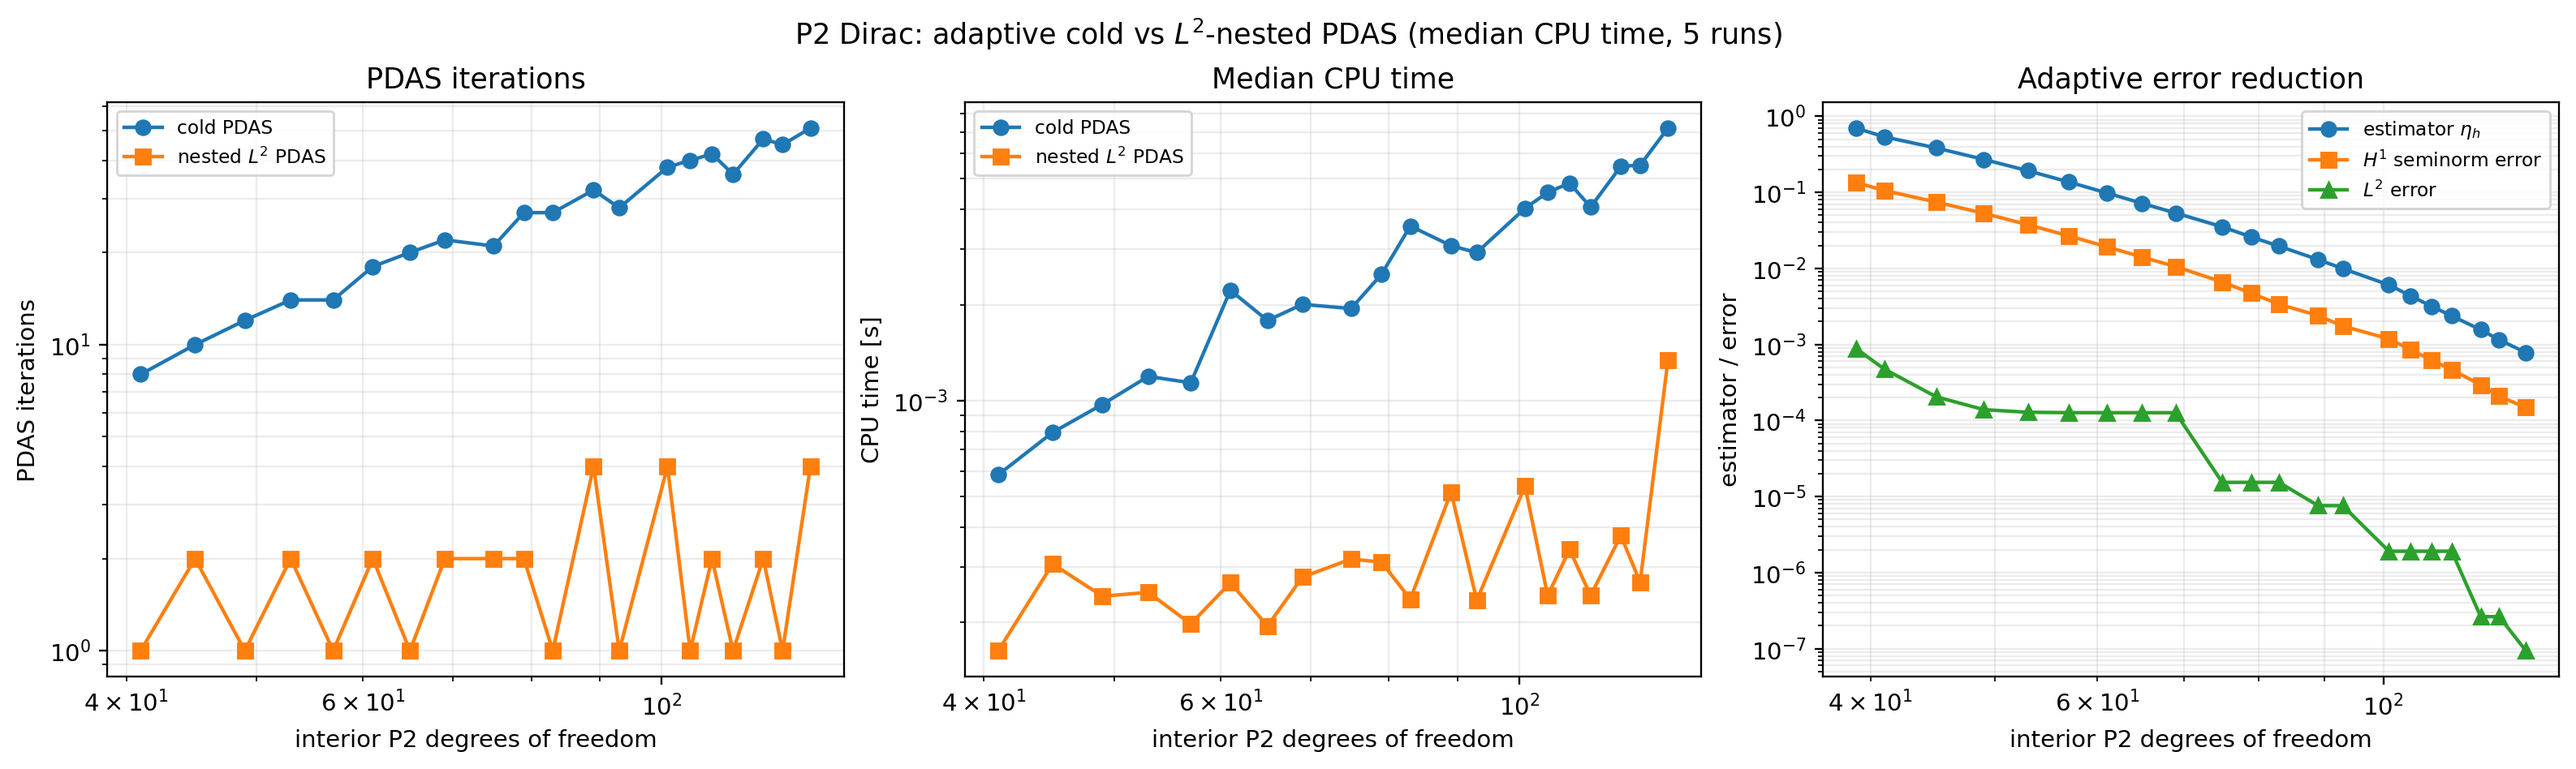
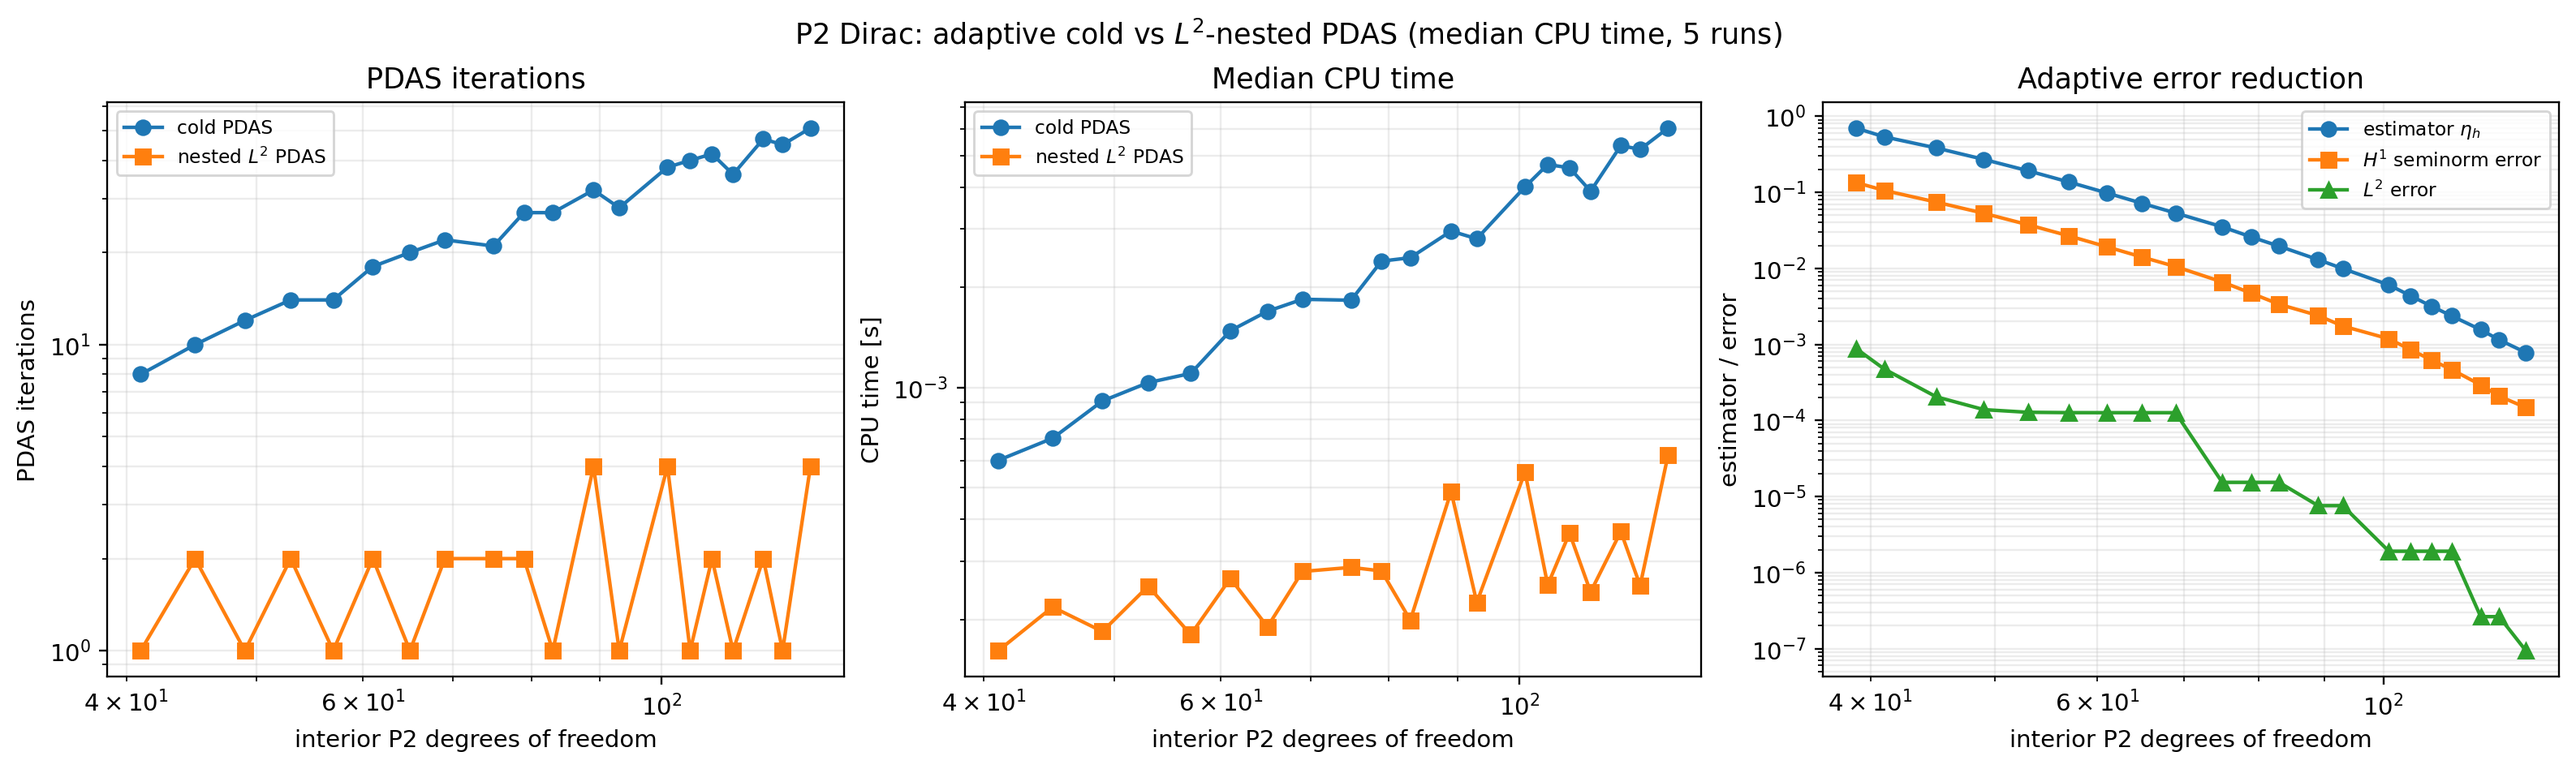
Consolidate adaptive P1 P2 nested PDAS benchmarks with validated timing

diff --git a/experiments/plot_dirac_nested_pdas_summary.py b/experiments/plot_dirac_nested_pdas_summary.py
@@ -1,0 +1,337 @@
+
+"""Six-panel, CSV-based P1/P2 adaptive Dirac PDAS comparison.
+
+Recreates plots from the saved per-mesh benchmark medians; no FEM solves.
+
+Each CPU point is the median of REPEATS independent timing repetitions
+on that mesh. Verify REPEATS against the benchmark invocation/source;
+the summary CSV contains medians, not the five raw samples.
+
+Run from repository root:
+    python -m experiments.plot_dirac_nested_pdas_summary
+"""
+
+import csv
+from pathlib import Path
+
+import matplotlib.pyplot as plt
+import numpy as np
+
+ROOT = Path(__file__).resolve().parents[1]
+RESULTS = ROOT / "results"
+FIGURES = ROOT / "figures"
+INPUTS = {
+    1: RESULTS / "p1_monster_dirac.csv",
+    2: RESULTS / "p2_monster_dirac.csv",
+}
+REPEATS = 5  # Benchmark setting, NOT inferred from aggregated CSV.
+MAX_SOLUTION_DIFFERENCE = 1e-8
+
+
+def load_history(path):
+    if not path.is_file():
+        raise FileNotFoundError(f"Missing benchmark CSV: {path}")
+
+    required = (
+        "level", "dofs", "eta_h", "h1_error", "l2_error",
+        "cold_iterations", "nested_iterations", "cold_cpu_seconds",
+        "nested_total_cpu_seconds", "max_solution_difference",
+    )
+    with path.open(newline="", encoding="utf-8") as f:
+        reader = csv.DictReader(f)
+        missing = set(required) - set(reader.fieldnames or [])
+        if missing:
+            raise ValueError(f"{path.name} missing columns: {sorted(missing)}")
+        rows = sorted(reader, key=lambda r: int(r["level"]))
+
+    if len(rows) < 3:
+        raise ValueError(f"Need at least 3 mesh levels in {path.name}")
+
+    def column(name, allow_first_blank=False):
+        values = []
+        for i, row in enumerate(rows):
+            cell = row[name].strip()
+            if i == 0 and not cell and allow_first_blank:
+                values.append(np.nan)
+            elif not cell:
+                raise ValueError(f"Missing {name} in {path.name}, row {i}")
+            else:
+                values.append(float(cell))
+        return np.asarray(values, dtype=float)
+
+    levels = column("level").astype(int)
+    if not np.array_equal(levels, np.arange(len(rows))):
+        raise ValueError(f"Nonconsecutive levels in {path.name}")
+
+    data = {
+        "dofs": column("dofs"),
+        "eta": column("eta_h"),
+        "h1": column("h1_error"),
+        "l2": column("l2_error"),
+        "cold_it": column("cold_iterations"),
+        "nested_it": column("nested_iterations", allow_first_blank=True),
+        "cold_cpu": column("cold_cpu_seconds"),
+        "nested_cpu": column("nested_total_cpu_seconds", allow_first_blank=True),
+        "difference": column("max_solution_difference"),
+        "mesh_levels": len(rows),
+    }
+
+    if not np.all(np.diff(data["dofs"]) > 0):
+        raise ValueError(f"DOFs do not strictly increase in {path.name}")
+    for key in ("eta", "h1", "l2", "cold_it", "cold_cpu"):
+        a = data[key]
+        if not np.all(np.isfinite(a) & (a > 0)):
+            raise ValueError(f"Invalid {key} values in {path.name}")
+    for key in ("nested_it", "nested_cpu"):
+        a = data[key][1:]
+        if not np.all(np.isfinite(a) & (a > 0)):
+            raise ValueError(f"Invalid {key} values in {path.name}")
+    diff = data["difference"]
+    if not np.all(np.isfinite(diff)) or np.max(diff) > MAX_SOLUTION_DIFFERENCE:
+        raise ValueError(f"Cold and nested PDAS disagree in {path.name}")
+
+    # Both strategies must pay for level 0: no coarse solution exists yet.
+    data["nested_cpu"][0] = data["cold_cpu"][0]
+    data["nested_it"][0] = data["cold_it"][0]
+
+    data["cold_total"] = float(np.sum(data["cold_cpu"]))
+    data["nested_total"] = float(np.sum(data["nested_cpu"]))
+    data["speedup"] = data["cold_total"] / data["nested_total"]
+    data["max_difference"] = float(np.max(diff))
+    return data
+
+
+
+
+def draw_accuracy(ax, d, degree):
+    """Measured accuracy, reference guides and observed log-log fits."""
+
+    n = np.asarray(d["dofs"], dtype=float)
+
+    ax.loglog(
+        n, d["eta"], "o-",
+        markersize=4,
+        label=r"Estimator $\eta_h$",
+    )
+    ax.loglog(
+        n, d["h1"], "s-",
+        markersize=4,
+        label=r"$H^1$ error",
+    )
+    ax.loglog(
+        n, d["l2"], "^-",
+        markersize=4,
+        label=r"$L^2$ error",
+    )
+
+    # Reference guides already used in our previous plot.
+    if degree == 1:
+        xref = np.geomspace(
+            max(n[0], n[-1] / 7), n[-1], 70
+        )
+        reference = (
+            ("h1", 1.0, "H1"),
+            ("l2", 2.0, "L2"),
+        )
+    else:
+        xref = np.geomspace(n[0], n[-1], 70)
+        reference = (
+            ("h1", 0.5, "H1"),
+            ("l2", 1.5, "L2"),
+        )
+
+    for key, exponent, label in reference:
+        if degree == 1:
+            guide = (
+                1.8 * d[key][-1]
+                * (xref / n[-1]) ** (-exponent)
+            )
+            description = "P1 adaptive guide"
+        else:
+            guide = (
+                d[key][0]
+                * (xref / n[0]) ** (-exponent)
+            )
+            description = "Uniform Dirac guide"
+
+        ax.loglog(
+            xref,
+            guide,
+            "--",
+            color=("0.25" if key == "h1" else "0.65"),
+            linewidth=1.6,
+            label=rf"{description} $N^{{-{exponent:g}}}$ ({label})",
+        )
+
+    # Empirical least-squares fit across ALL adaptive levels.
+    xfit = np.geomspace(n[0], n[-1], 100)
+
+    for key, label, color in (
+        ("h1", "H1", "tab:orange"),
+        ("l2", "L2", "tab:green"),
+    ):
+        y = np.asarray(d[key], dtype=float)
+
+        slope, intercept = np.polyfit(
+            np.log(n),
+            np.log(y),
+            1,
+        )
+
+        exponent = -float(slope)
+
+        fitted = np.exp(
+            intercept + slope * np.log(xfit)
+        )
+
+        # R-squared in log-log coordinates.
+        log_y = np.log(y)
+        predicted = intercept + slope * np.log(n)
+
+        r2 = 1.0 - (
+            np.sum((log_y - predicted) ** 2)
+            / np.sum((log_y - np.mean(log_y)) ** 2)
+        )
+
+        ax.loglog(
+            xfit,
+            fitted,
+            ":",
+            color=color,
+            linewidth=2.25,
+            alpha=0.9,
+            label=rf"Observed {label} fit $N^{{-{exponent:.2f}}}$",
+        )
+
+        print(
+            f"P{degree} adaptive {label}: "
+            f"fitted exponent p={exponent:.3f}, "
+            f"R^2={r2:.3f} "
+            f"({len(n)} mesh levels)"
+        )
+
+    ax.set_title(f"P{degree} · adaptive accuracy")
+    ax.set_ylabel("Estimator / error")
+    ax.legend(
+    fontsize=7.1,
+    loc="upper left",
+    bbox_to_anchor=(1.02, 1.0),
+    borderaxespad=0.0,
+)
+
+
+def draw_figure(histories, path):
+    fig, axes = plt.subplots(2, 3, figsize=(20, 9.4))
+
+    for i, degree in enumerate((1, 2)):
+        d = histories[degree]
+        n = d["dofs"]
+        label_cold = "Cold-start adaptive PDAS"
+        label_nested = r"$L^2$-nested adaptive PDAS"
+
+        ax = axes[i, 0]
+        ax.loglog(n, d["cold_it"], "o-", label=label_cold, markersize=4)
+        ax.loglog(n, d["nested_it"], "s-", label=label_nested, markersize=4)
+        ax.set_title(f"P{degree} · PDAS iterations")
+        ax.set_ylabel("Iterations on this mesh")
+        ax.legend(fontsize=8)
+
+        ax = axes[i, 1]
+        ax.loglog(n, d["cold_cpu"], "o-", label=label_cold, markersize=4)
+        ax.loglog(n, d["nested_cpu"], "s-", label=label_nested, markersize=4)
+        ax.set_title(f"P{degree} · median solver CPU time")
+        ax.set_ylabel(f"Median of {REPEATS} timed runs [s]")
+        ax.text(
+            0.96, 0.06,
+            f"Sum-of-medians speedup: {d['speedup']:.1f}x",
+            transform=ax.transAxes, ha="right", va="bottom",
+            fontsize=9, bbox=dict(facecolor="white", alpha=0.88, edgecolor="0.8"),
+        )
+        ax.legend(fontsize=8)
+
+        draw_accuracy(axes[i, 2], d, degree)
+
+        for ax in axes[i]:
+            ax.set_xlabel("Interior degrees of freedom $N$")
+            ax.grid(True, which="both", alpha=0.23)
+
+    mesh_info = " · ".join(
+        f"P{p}: {histories[p]['mesh_levels']} mesh levels / "
+        f"{histories[p]['mesh_levels'] - 1} refinements" for p in (1, 2)
+    )
+    fig.suptitle(
+        "Dirac obstacle: adaptive P1/P2 FEM, cold versus $L^2$-nested PDAS\n"
+        f"Same adaptive meshes · {REPEATS} timing repetitions per method per level · "
+        f"{mesh_info}",
+        fontsize=13,
+    )
+    fig.text(
+        0.5, 0.045,
+        f"Each CPU point = median of {REPEATS} repetitions on that mesh. "
+        "Initial cold solve included for both methods. "
+        "Nested CPU includes $L^2$ transfer.\n"
+        "Timing excludes assembly, estimator computation, marking and refinement. "
+        "Dashed: P1 illustrative adaptive / P2 UNIFORM Dirac guides. "
+        "Dotted: fitted log-log slopes across all adaptive levels.",
+        ha="center", va="center", fontsize=9,
+    )
+    fig.tight_layout(rect=(0, 0.10, 1, 0.91))
+    fig.savefig(path, dpi=190, bbox_inches="tight")
+    plt.close(fig)
+
+
+def main():
+    data = {p: load_history(file) for p, file in INPUTS.items()}
+    RESULTS.mkdir(exist_ok=True)
+    FIGURES.mkdir(exist_ok=True)
+
+    output_rows = []
+    print("\nCold versus nested adaptive PDAS on IDENTICAL meshes")
+    print(f"Timing methodology: {REPEATS} CPU repetitions per method and mesh;")
+    print("each plotted point = median of those repetitions (not median across levels).")
+    print("Aggregate CPU = sum of mesh-wise medians, including level 0 for both.\n")
+
+    for degree in (1, 2):
+        d = data[degree]
+        nlevels = d["mesh_levels"]
+        final_dofs = int(d["dofs"][-1])
+        speedup = d["speedup"]
+        print(
+            f"P{degree}: {nlevels} mesh levels ({nlevels-1} refinements), "
+            f"final N={final_dofs}; "
+            f"last iterations {int(d['cold_it'][-1])} vs "
+            f"{int(d['nested_it'][-1])}; "
+            f"total CPU {d['cold_total']:.6f}s vs "
+            f"{d['nested_total']:.6f}s; "
+            f"{speedup:.1f}x solver-stage speedup; "
+            f"max difference {d['max_difference']:.2e}"
+        )
+        output_rows.append({
+            "degree": degree,
+            "adaptive_refinements": nlevels - 1,
+            "mesh_levels": nlevels,
+            "timing_repetitions_per_mesh_and_method": REPEATS,
+            "final_dofs": final_dofs,
+            "final_cold_iterations": int(d["cold_it"][-1]),
+            "final_nested_iterations": int(d["nested_it"][-1]),
+            "cold_sum_of_medians_seconds": d["cold_total"],
+            "nested_sum_of_medians_seconds": d["nested_total"],
+            "solver_stage_speedup": speedup,
+            "max_solution_difference": d["max_difference"],
+        })
+
+    csv_path = RESULTS / "dirac_nested_pdas_p1_p2_summary.csv"
+    with csv_path.open("w", newline="", encoding="utf-8") as file:
+        writer = csv.DictWriter(file, fieldnames=list(output_rows[0]))
+        writer.writeheader()
+        writer.writerows(output_rows)
+
+    png_path = FIGURES / "dirac_nested_pdas_p1_p2_summary.png"
+    draw_figure(data, png_path)
+    print(f"\nSaved: {png_path.relative_to(ROOT)}")
+    print(f"Saved: {csv_path.relative_to(ROOT)}")
+    print("Caveat: CSV stores median timings, not five individual samples.")
+
+
+if __name__ == "__main__":
+    main()
